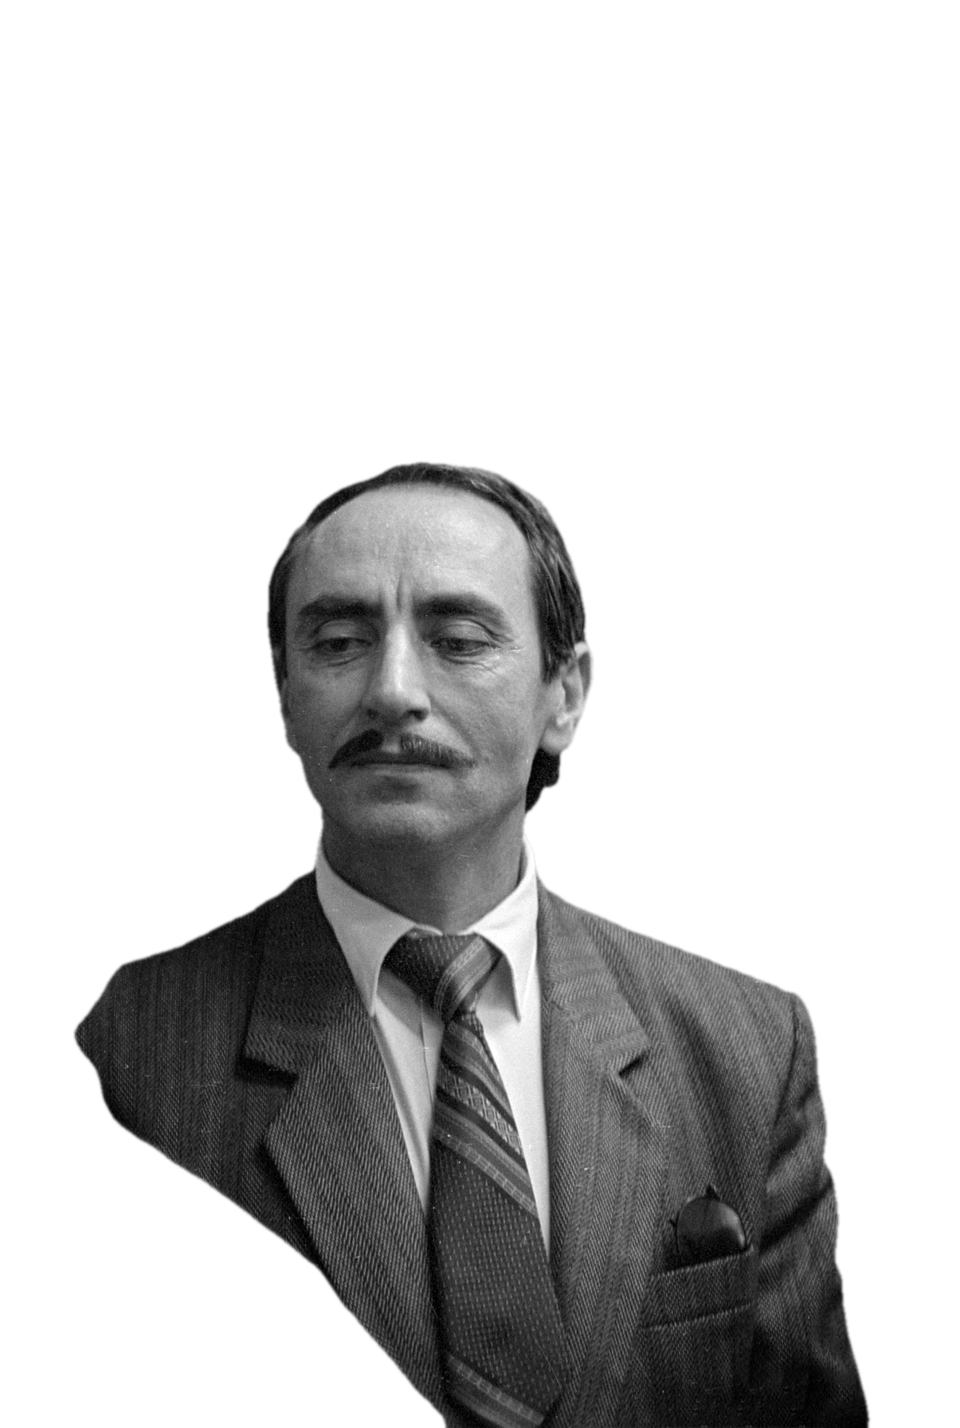
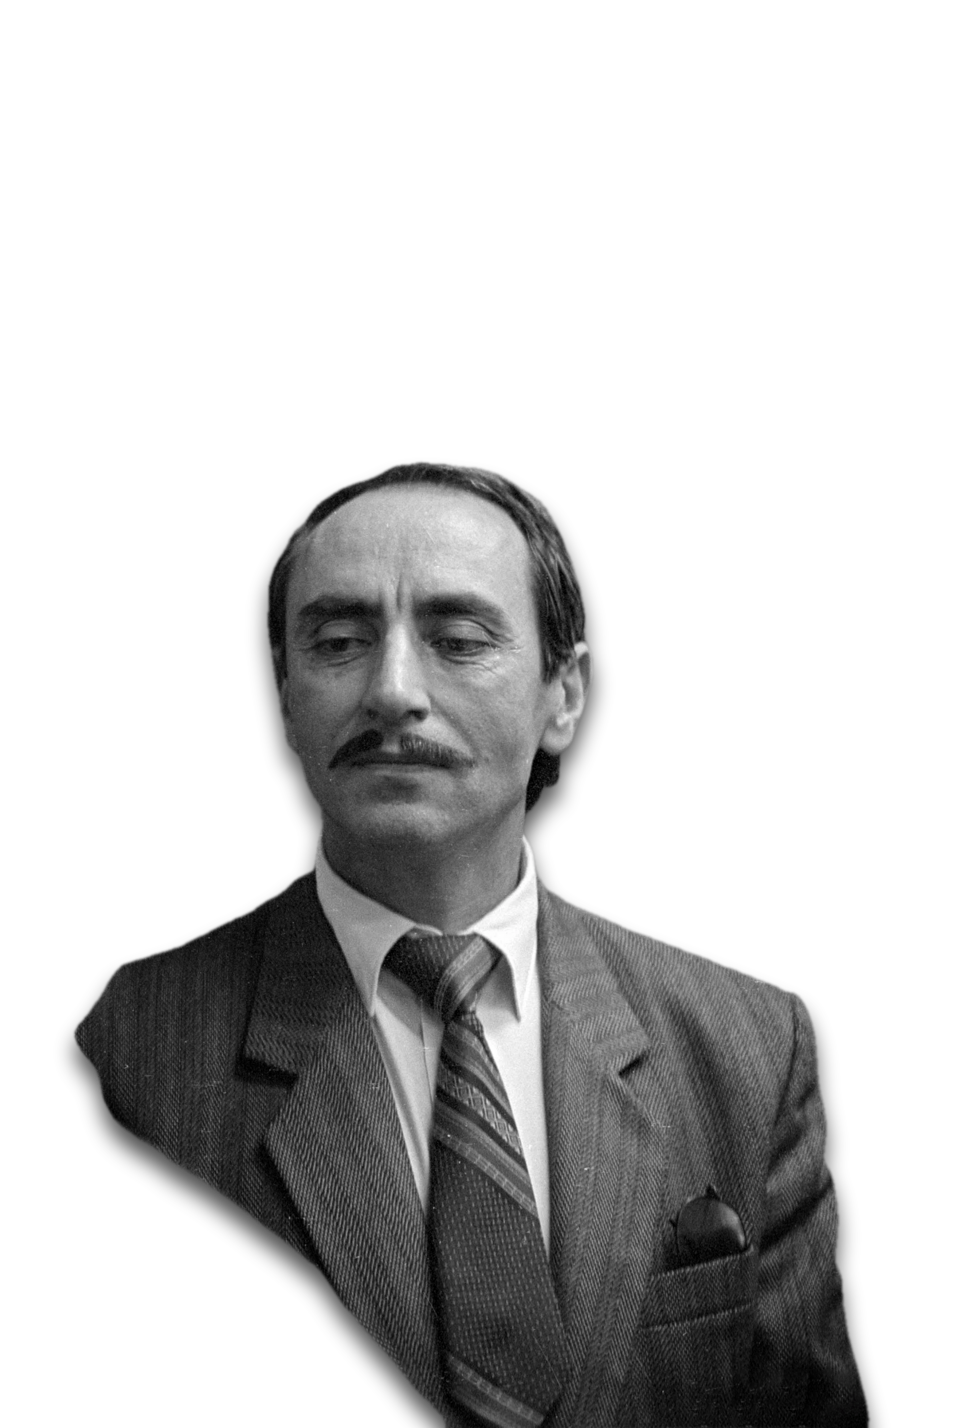
nokhchi-edit: Rendern mehrfach schneller
- Weichzeichnungen und Schlagschatten werden vorab in Dateien gerechnet
  (scripts/bake_assets.py) statt pro Frame per CSS blur()/drop-shadow.
- Filmkorn kommt beim Muxen per ffmpeg (Overlay auf Helligkeit) statt
  als Browser-Ebene mit Mischmodus.
- Glut/Schnee mit radialen Verläufen statt box-shadow/blur.
Gemessen (1080p, 3 Tabs): Drop-Teil 58 s -> 35 s je 30 Frames,
1944-Teil 73 s -> ~20 s je 30 Frames.

Claude-Session: https://claude.ai/code/session_01K4kE2zmfexF9fAuiJbbnff

diff --git a/nokhchi-edit/src/components/PopOut.tsx b/nokhchi-edit/src/components/PopOut.tsx
@@ -4,6 +4,7 @@ import type {CSSProperties} from 'react';
 import {AbsoluteFill, Easing, Img, interpolate, staticFile, useCurrentFrame, useVideoConfig} from 'remotion';
 import {F} from '../fonts';
 import {C} from '../theme';
+import {blurredOf} from '../assets';
 import {Fallback, GRADE, type Grade} from './Photo';
 
 type Rect = {x: number; y: number; w: number; h: number};
@@ -54,8 +55,8 @@ export const PopOut: React.FC<{
 	return (
 		<AbsoluteFill style={{overflow: 'hidden', ...style}}>
 			{/* Hintergrund: dasselbe Bild, groß, dunkel, unscharf */}
-			<AbsoluteFill style={{filter: `${filter ?? ''} blur(18px) brightness(${1 - bgDim})`, transform: `scale(${1.25 + 0.05 * p})`}}>
-				<Img src={staticFile(src)} style={{width: '100%', height: '100%', objectFit: 'cover'}} />
+			<AbsoluteFill style={{filter: `brightness(${1 - bgDim})`, transform: `scale(${1.25 + 0.05 * p})`}}>
+				<Img src={staticFile(blurredOf(src) ?? src)} style={{width: '100%', height: '100%', objectFit: 'cover'}} />
 			</AbsoluteFill>
 			<AbsoluteFill style={{background: `radial-gradient(ellipse at 50% 40%, rgba(110,7,16,0.35), rgba(0,0,0,0.65))`}} />
 			{behind ? (
@@ -106,7 +107,7 @@ export const PopOut: React.FC<{
 			) : null}
 			{/* Freigestellte Person – nicht beschnitten, ragt über den Rahmen */}
 			<div style={{position: 'absolute', inset: 0, transform: `${noFrame ? '' : `scale(${0.88 + 0.12 * frameIn}) `}`, transformOrigin: `${fcx}px ${fcy}px`}}>
-				<div style={{position: 'absolute', inset: 0, transform: T, filter: `${filter ?? ''} drop-shadow(0 20px 40px rgba(0,0,0,0.7))`}}>
+				<div style={{position: 'absolute', inset: 0, transform: T, filter}}>
 					<Img src={staticFile(cut)} style={imgStyle} />
 				</div>
 			</div>

diff --git a/nokhchi-edit/src/fx/Overlays.tsx b/nokhchi-edit/src/fx/Overlays.tsx
@@ -1,30 +1,8 @@
-// Globale Ebenen über allem: Filmkorn, Vignette, Blitze auf Treffern, Kinobalken.
-import {AbsoluteFill, interpolate, random, staticFile, useCurrentFrame} from 'remotion';
+// Globale Ebenen über allem: Vignette, Blitze auf Treffern, Kinobalken, Kamerawackler.
+// (Filmkorn kommt erst beim Muxen per ffmpeg dazu – im Browser wäre es pro Frame zu teuer.)
+import {AbsoluteFill, interpolate, random, useCurrentFrame} from 'remotion';
 import {C} from '../theme';
 import {lastHit} from '../timeline';
-
-/** Filmkorn: vorberechnete Rauschkacheln, jedes Frame anders versetzt */
-export const Grain: React.FC<{opacity?: number}> = ({opacity = 0.16}) => {
-	const frame = useCurrentFrame();
-	const tile = Math.floor(random(`g${frame}`) * 6);
-	const x = Math.floor(random(`gx${frame}`) * 360);
-	const y = Math.floor(random(`gy${frame}`) * 360);
-	return (
-		<AbsoluteFill style={{overflow: 'hidden', mixBlendMode: 'overlay', opacity, pointerEvents: 'none'}}>
-			<div
-				style={{
-					position: 'absolute',
-					left: -x,
-					top: -y,
-					width: 1080 + 720,
-					height: 1920 + 720,
-					backgroundImage: `url(${staticFile(`fx/grain_${tile}.png`)})`,
-					backgroundSize: '360px 360px',
-				}}
-			/>
-		</AbsoluteFill>
-	);
-};
 
 export const Vignette: React.FC<{strength?: number}> = ({strength = 0.85}) => (
 	<AbsoluteFill

diff --git a/nokhchi-edit/src/components/Photo.tsx b/nokhchi-edit/src/components/Photo.tsx
@@ -3,6 +3,7 @@
 import {useId} from 'react';
 import type {CSSProperties} from 'react';
 import {AbsoluteFill, Easing, Img, interpolate, random, staticFile, useCurrentFrame, useVideoConfig} from 'remotion';
+import {blurredOf} from '../assets';
 
 export type Grade = 'paint' | 'bw' | 'warm' | 'cold' | 'blood' | 'none';
 
@@ -87,7 +88,9 @@ export const Photo: React.FC<PhotoProps> = ({
 		objectFit: contain ? 'contain' : 'cover',
 		objectPosition: `${focus[0] * 100}% ${focus[1] * 100}%`,
 	};
-	const url = staticFile(src);
+	// Weichzeichnen kostet im Browser pro Frame viel – dafür die vorberechnete Kleinfassung nehmen
+	const soft = blur > 0 ? blurredOf(src) : null;
+	const url = staticFile(soft ?? src);
 	const layer = (s: number, o: number, key: string, extra?: CSSProperties) => (
 		<div
 			key={key}
@@ -123,7 +126,7 @@ export const Photo: React.FC<PhotoProps> = ({
 		}
 	}
 
-	const filter = [GRADE[grade], split > 0.3 ? `url(#${fid})` : '', blur + fallBlur > 0 ? `blur(${blur + fallBlur}px)` : '']
+	const filter = [GRADE[grade], split > 0.3 ? `url(#${fid})` : '', (soft ? 0 : blur) + fallBlur > 0.5 ? `blur(${(soft ? 0 : blur) + fallBlur}px)` : '']
 		.filter((x) => x && x !== 'none')
 		.join(' ');
 

diff --git a/nokhchi-edit/src/fx/Particles.tsx b/nokhchi-edit/src/fx/Particles.tsx
@@ -24,16 +24,17 @@ export const Particles: React.FC<{kind: 'ember' | 'snow'; count?: number; from: 
 					position: 'absolute',
 					left: x,
 					top: y,
-					width: size,
-					height: size,
+					width: kind === 'ember' ? size * 3 : size * 1.4,
+					height: kind === 'ember' ? size * 3 : size * 1.4,
 					borderRadius: '50%',
-					backgroundColor: kind === 'ember' ? '#ff7a2a' : '#eef3f8',
-					boxShadow: kind === 'ember' ? `0 0 ${size * 3}px ${size}px rgba(255,90,20,0.55)` : 'none',
-					filter: kind === 'snow' && size > 6 ? 'blur(2px)' : undefined,
+					// weicher Rand über Verlauf – billiger als box-shadow oder CSS blur()
+					background: kind === 'ember'
+						? 'radial-gradient(circle, #ffd2a0 0%, #ff7a2a 35%, rgba(255,90,20,0.35) 60%, rgba(255,90,20,0) 72%)'
+						: 'radial-gradient(circle, rgba(238,243,248,1) 0%, rgba(238,243,248,0.85) 45%, rgba(238,243,248,0) 72%)',
 					opacity: flicker,
 				}}
 			/>,
 		);
 	}
-	return <AbsoluteFill style={{opacity: fadeIn * fadeOut, mixBlendMode: kind === 'ember' ? 'screen' : 'normal', pointerEvents: 'none'}}>{items}</AbsoluteFill>;
+	return <AbsoluteFill style={{opacity: fadeIn * fadeOut, pointerEvents: 'none'}}>{items}</AbsoluteFill>;
 };

diff --git a/nokhchi-edit/src/assets.ts b/nokhchi-edit/src/assets.ts
@@ -5,9 +5,16 @@ import assets from './assets.json';
 type Entry = {path: string; aspect: number};
 const hist = assets.hist as Record<string, Entry>;
 const cut = assets.cut as Record<string, Entry>;
+const blur = assets.blur as Record<string, Entry>;
 
 export const img = (key: string): string | null => hist[key]?.path ?? null;
 export const cutout = (key: string): string | null => cut[key]?.path ?? null;
+
+/** Stark weichgezeichnete Kleinfassung eines Bildes (vorberechnet, statt CSS blur() beim Rendern) */
+export const blurredOf = (path: string): string | null => {
+	const key = path.split('/').pop()?.replace(/\.[a-z]+$/i, '') ?? '';
+	return blur[key]?.path ?? null;
+};
 
 /**
  * Bildrahmen (px im 1080×1920-Raster), so dass Punkt (cx, cy) des Bildes (0–1, z. B. das Gesicht)

diff --git a/nokhchi-edit/src/Edit.tsx b/nokhchi-edit/src/Edit.tsx
@@ -9,7 +9,7 @@ import {Photo} from './components/Photo';
 import {PopOut} from './components/PopOut';
 import {Counter, Kicker, Quote, Slam, Typed} from './components/Text';
 import {F} from './fonts';
-import {BeatPulse, Grain, HitFlash, Letterbox, useShake, Vignette} from './fx/Overlays';
+import {BeatPulse, HitFlash, Letterbox, useShake, Vignette} from './fx/Overlays';
 import {Particles} from './fx/Particles';
 import {C} from './theme';
 import {beatsOf, mark, section} from './timeline';
@@ -398,7 +398,6 @@ export const Edit: React.FC = () => {
 			<BeatPulse from={0} to={DURATION} />
 			<HitFlash from={0} to={DURATION} />
 			<Vignette />
-			<Grain />
 			<Html5Audio src={staticFile('audio/mix.wav')} />
 		</AbsoluteFill>
 	);

diff --git a/nokhchi-edit/scripts/bake_assets.py b/nokhchi-edit/scripts/bake_assets.py
@@ -1,0 +1,46 @@
+#!/usr/bin/env python3
+"""Rechnet teure Browser-Effekte vorab in Dateien ein – das Rendern wird dadurch mehrfach schneller.
+
+- public/img/blur/<name>.jpg : stark weichgezeichnete Kleinfassung (statt CSS blur() auf 4K-Flächen)
+- public/img/cut/<name>.png  : Freisteller aus assets-src/cut-raw/ mit eingerechnetem weichem
+  Schlagschatten (statt CSS drop-shadow)
+"""
+from pathlib import Path
+
+from PIL import Image, ImageFilter
+
+ROOT = Path(__file__).resolve().parent.parent
+HIST = ROOT / "public" / "img" / "hist"
+BLUR = ROOT / "public" / "img" / "blur"
+CUT = ROOT / "public" / "img" / "cut"
+RAW = ROOT / "assets-src" / "cut-raw"
+
+
+def main():
+    BLUR.mkdir(parents=True, exist_ok=True)
+    RAW.mkdir(parents=True, exist_ok=True)
+    for p in sorted(HIST.glob("*")):
+        if p.suffix.lower() not in (".jpg", ".jpeg", ".png"):
+            continue
+        im = Image.open(p).convert("RGB")
+        im.thumbnail((360, 360))
+        im = im.filter(ImageFilter.GaussianBlur(6))
+        im.save(BLUR / f"{p.stem}.jpg", quality=88)
+    CUT.mkdir(parents=True, exist_ok=True)
+    for raw in sorted(RAW.glob("*.png")):
+        p = CUT / raw.name
+        im = Image.open(raw).convert("RGBA")
+        w, h = im.size
+        a = im.getchannel("A")
+        # Schatten: Alpha weichgezeichnet, leicht nach unten versetzt, 70 % Deckkraft
+        sh = a.filter(ImageFilter.GaussianBlur(max(4, w // 90))).point(lambda v: int(v * 0.7))
+        shadow = Image.new("RGBA", (w, h), (0, 0, 0, 0))
+        dy = max(4, h // 80)
+        shadow.paste(Image.new("RGBA", (w, h), (0, 0, 0, 255)), (0, dy), sh)
+        out = Image.alpha_composite(shadow, im)
+        out.save(p, optimize=True)
+        print(f"{p.name}: Schatten eingerechnet")
+
+
+if __name__ == "__main__":
+    main()

diff --git a/nokhchi-edit/scripts/make_cutouts.py b/nokhchi-edit/scripts/make_cutouts.py
@@ -1,7 +1,8 @@
 #!/usr/bin/env python3
 """Stellt Personen frei (BiRefNet über rembg, lokal) – für die „aus dem Bild heraus“-Effekte.
 
-Ergebnis: public/img/cut/<name>.png in derselben Größe wie das Original, mit Alphakanal.
+Ergebnis: assets-src/cut-raw/<name>.png in derselben Größe wie das Original, mit Alphakanal
+(scripts/bake_assets.py macht daraus public/img/cut/ mit eingerechnetem Schatten).
 Dadurch liegt die Freistellung pixelgenau über dem Bild, wenn beide gleich platziert werden.
 Modell: ~/.u2net/birefnet-general.onnx (rembg lädt es beim ersten Lauf selbst).
 """
@@ -14,7 +15,7 @@ from rembg import new_session, remove
 
 ROOT = Path(__file__).resolve().parent.parent
 HIST = ROOT / "public" / "img" / "hist"
-CUT = ROOT / "public" / "img" / "cut"
+CUT = ROOT / "assets-src" / "cut-raw"  # Rohfassung; scripts/bake_assets.py rechnet den Schatten ein
 
 # Bilder mit klar erkennbarer Person
 PORTRAITS = ["baysangur", "mansur_1787", "zelimkhan", "chechen_yermakov", "dudayev_1991", "shida"]

diff --git a/nokhchi-edit/scripts/index_assets.py b/nokhchi-edit/scripts/index_assets.py
@@ -9,7 +9,7 @@ from PIL import Image
 ROOT = Path(__file__).resolve().parent.parent
 PUB = ROOT / "public"
 out = {}
-for kind in ("hist", "cut"):
+for kind in ("hist", "cut", "blur"):
     d = PUB / "img" / kind
     out[kind] = {}
     for p in sorted(d.glob("*")):
